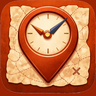
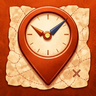
Appicoon vervangen door de full-bleed versie
Het oude icon.png tekende de icoonvorm IN het beeld: een afgeronde tegel op
69,4% van het canvas, op wit (53% van alle pixels), met slagschaduw. Dat gaf
een zichtbare witte rand rond het logo. Vervangen door de full-bleed versie
uit de app-repo (assets/store/icon-1024-fullbleed.png).

Favicon-set opnieuw gegenereerd: favicon-16/-32, apple-touch-icon (180) en
icon-96 (het logo in de nav en de footer).

optimize-images.py detecteert nu of de bron een witte marge heeft. De stappen
crop_to_logo() + fill_white() repareren namelijk een probleem dat alleen het
oude tegel-icoon had; op een full-bleed bron zou fill_white() lichte plekken
in de echte tekening (glans op de wijzerplaat, licht perkament) donkerrood
overschilderen en crop_to_logo() een willekeurige uitsnede maken. Gemeten:
oud 53% bijna-wit, nieuw 0,00%. De detectie is vooraf getest op beide iconen.

Geen CSS-wijziging nodig: .nav-logo img en .footer-brand img hebben al een
border-radius (8px resp. 6px), dus het vierkante beeld wordt afgerond en de
terracotta vult nu de hoeken in plaats van wit.

Het oude icoon blijft opvraagbaar via: git checkout 532892d -- images/icon.png

diff --git a/scripts/optimize-images.py b/scripts/optimize-images.py
@@ -169,13 +169,35 @@ def crop_to_logo(base, pad_frac=0.0):
     return base.crop(box)
 
 
+def has_white_border(img):
+    """Tekent de bron een icoonvorm IN het beeld, met een witte marge eromheen?
+
+    Bepalend voor of crop_to_logo() + fill_white() moeten draaien. Die twee
+    repareren namelijk een probleem dat alleen het oude tegel-icoon had. Een
+    full-bleed bron loopt tot de rand door; dan zou fill_white() lichte plekken
+    in de echte tekening (glans op de wijzerplaat, licht perkament) donkerrood
+    overschilderen en crop_to_logo() een willekeurige uitsnede maken.
+
+    Meet de buitenste pixelring: overwegend bijna-wit betekent marge.
+    """
+    import numpy as np
+
+    rgb = np.array(img.convert("RGB")).astype(int)
+    edge = np.concatenate([rgb[0, :], rgb[-1, :], rgb[:, 0], rgb[:, -1]])
+    return (edge.min(axis=1) > 240).mean() > 0.5
+
+
 def make_favicons():
     src = os.path.join(IMAGES, "icon.png")
     if not os.path.exists(src):
         print("  ! icon.png ontbreekt, favicons overgeslagen")
         return
-    base = crop_to_logo(Image.open(src).convert("RGBA"))
-    base = fill_white(base).convert("RGBA")
+    base = Image.open(src).convert("RGBA")
+    if has_white_border(base):
+        base = fill_white(crop_to_logo(base)).convert("RGBA")
+        print("  (witte marge gedetecteerd -> bijgesneden + opgevuld)")
+    else:
+        print("  (full-bleed bron -> onbewerkt geschaald)")
     for name, size in FAVICONS:
         out = os.path.join(IMAGES, name)
         base.resize((size, size), Image.LANCZOS).save(out, "PNG", optimize=True)
